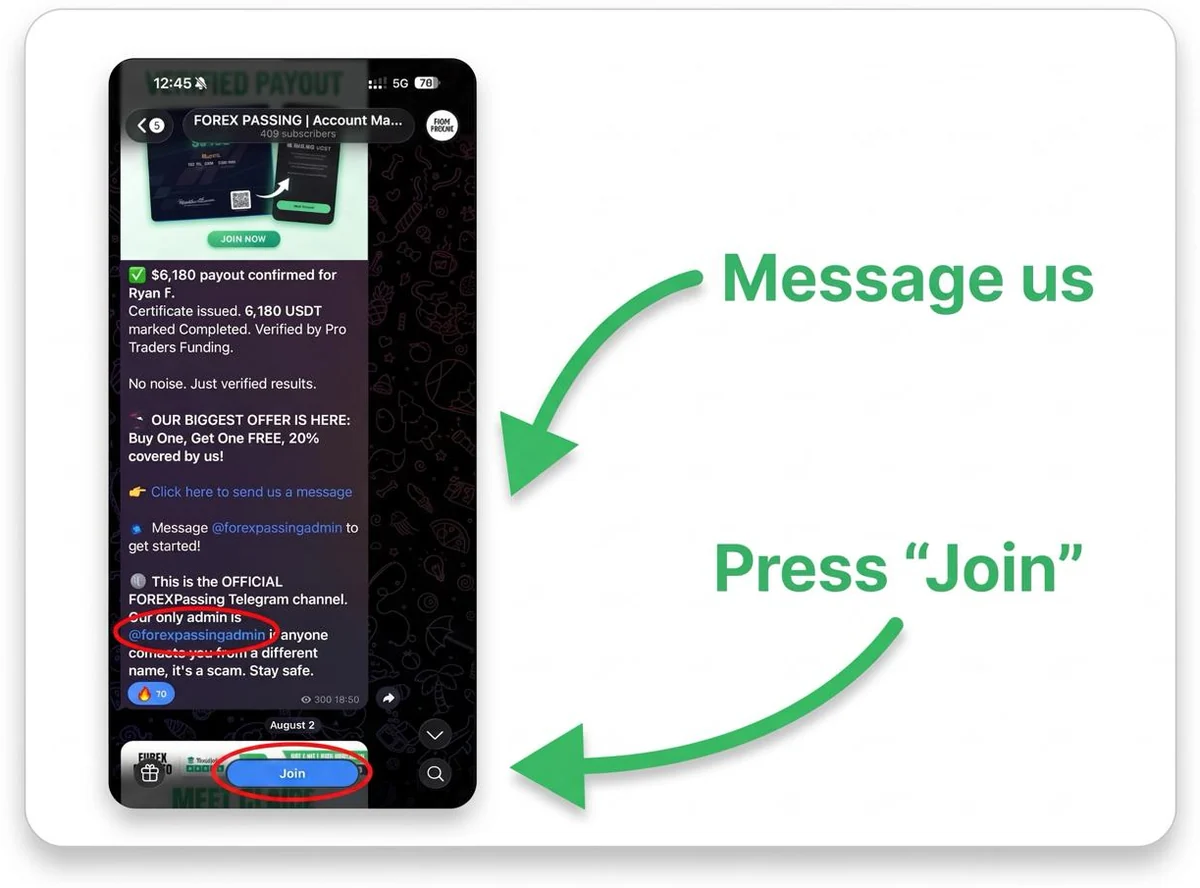
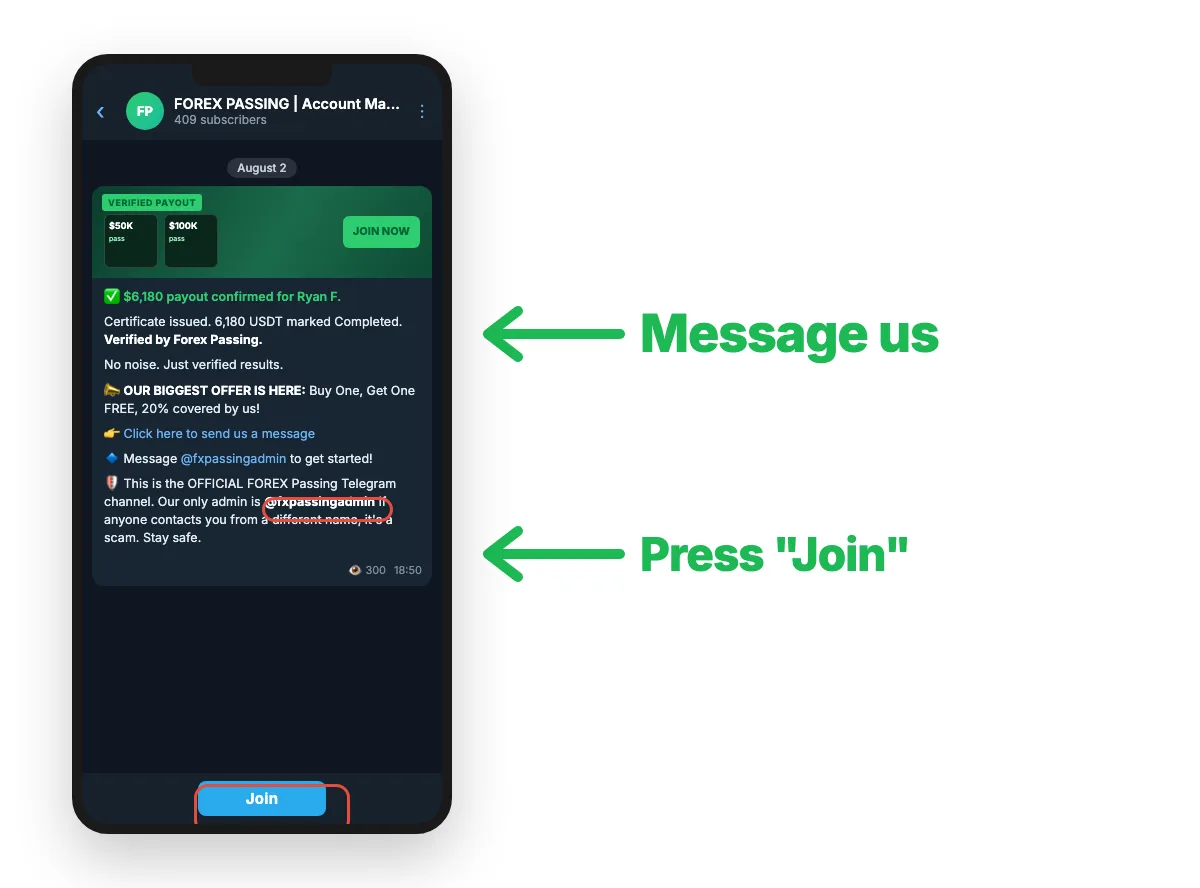
Sync miejsc z thank-you: ping + Make, świeża grafika TG
Opis kanału dostraja się przez publiczny /api/spots-ping (ruch thank-you + cron)
i przez Make/spots-sync z tym samym x-sync-key; grafika na thank-you ma aktualne handlowe @fxpassingadmin.

diff --git a/STRONA/api/spots-sync.js b/STRONA/api/spots-sync.js
@@ -3,34 +3,14 @@
 //
 // Wołane z zewnętrznego budzika (scenariusz Make), bo liczba wynika z pory dnia
 // w Nowym Jorku i nie ma zdarzenia, na które dałoby się zareagować. Cała logika
-// siedzi tutaj, a nie w budziku — dzięki temu Make jest wymienialny i nie ma
-// tam drugiej kopii wzoru, która mogłaby się rozjechać ze stroną.
-//
-// Harmonogram GitHub Actions próbowaliśmy pierwszy i NIE DZIAŁA na tym repo:
-// `workflow_dispatch` odpala się bez pudła, ale event `schedule` nie odpalił się
-// ani razu przez ponad dwie godziny — ani przy `*/5 * * * *`, ani przy rzadkim
-// harmonogramie celującym w progi. Stąd budzik z zewnątrz.
-//
-// Bezstanowe i idempotentne: czyta żywy opis, podmienia w nim SAMĄ liczbę
-// przed „remaining" i wysyła tylko przy różnicy. Reszta opisu należy do
-// admina — może ją redagować w apce, a sync jej nie nadpisze. Szablon z
-// spots.js wchodzi dopiero, gdy w opisie nie ma licznika (np. opis wyczyszczony
-// do zera). Pominięte wywołanie niczego nie psuje — nadrabia następne.
+// siedzi w api/_lib/spots-sync-core.js — ten endpoint tylko pilnuje sekretu
+// `x-sync-key` i deleguje.
 //
 // Wstęp tylko z nagłówkiem `x-sync-key` zgodnym ze zmienną SPOTS_SYNC_KEY.
-// Wcześniej endpoint był otwarty i przyjmował token bota z nagłówka — obcy nie
-// mógł ruszyć cudzego kanału (Telegram odrzuca nie-administratora), ale mógł
-// palić limity naszego bota i triggerować zapisy. Teraz token bota pochodzi
-// WYŁĄCZNIE z TELEGRAM_BOT_TOKEN, a budzik (scenariusz Make) uwierzytelnia się
-// sekretem. Gate obejmuje też `?dry=1`, bo podgląd zdradza opis i chatId.
+// Token bota pochodzi WYŁĄCZNIE z TELEGRAM_BOT_TOKEN. Gate obejmuje też
+// `?dry=1`, bo podgląd zdradza opis i chatId.
 
-import {
-  channelDescriptionAt,
-  nextSpotsChange,
-  swapSpotsNumber,
-  TG_CHANNEL_CHAT_ID,
-  TG_DESCRIPTION_MAX,
-} from '../src/lib/spots.js';
+import { syncChannelDescription } from './_lib/spots-sync-core.js';
 
 const TAG = '[spots-sync]';
 
@@ -43,31 +23,10 @@ function timingSafeEqual(a, b) {
   return diff === 0;
 }
 
-/** Jedno wywołanie Bot API. Rzuca z czytelnym powodem zamiast gołego statusu. */
-async function tg(token, method, params) {
-  const res = await fetch(`https://api.telegram.org/bot${token}/${method}`, {
-    method: 'POST',
-    headers: { 'content-type': 'application/json' },
-    body: JSON.stringify(params),
-  });
-  const body = await res.json().catch(() => ({}));
-  if (!body.ok) {
-    const err = new Error(`${method}: ${body.description ?? res.status}`);
-    err.status = res.status;
-    throw err;
-  }
-  return body.result;
-}
-
 export default async function handler(req, res) {
   const now = Date.now();
-
-  // Nie chcemy, żeby budzik dostał odpowiedź z pośredniego cache'u i uznał, że
-  // zrobił swoje.
   res.setHeader('cache-control', 'no-store');
 
-  // Zamek na drzwiach. Bez ustawionego SPOTS_SYNC_KEY endpoint jest zamknięty
-  // na głucho — brak sekretu w env to stan „nie skonfigurowano", nie „otwarte".
   const syncKey = process.env.SPOTS_SYNC_KEY;
   const givenKey = typeof req.headers['x-sync-key'] === 'string' ? req.headers['x-sync-key'].trim() : '';
   if (!syncKey || !givenKey || !timingSafeEqual(givenKey, syncKey)) {
@@ -75,61 +34,25 @@ export default async function handler(req, res) {
     return;
   }
 
-  const { n, description: fallback } = channelDescriptionAt(now);
-  const chatId = process.env.TELEGRAM_SPOTS_CHAT_ID || TG_CHANNEL_CHAT_ID;
   const token = process.env.TELEGRAM_BOT_TOKEN;
-
   if (!token) {
     res.status(500).json({ ok: false, error: 'brak TELEGRAM_BOT_TOKEN w środowisku' });
     return;
   }
 
   try {
-    // Żywy opis czytamy PRZED złożeniem docelowego (także w ?dry=1): tekst
-    // należy do admina, my podmieniamy w nim tylko liczbę przed „remaining".
-    const chat = await tg(token, 'getChat', { chat_id: chatId });
-    const have = chat.description ?? '';
-    const description = swapSpotsNumber(have, n) ?? fallback;
-
-    if (description.length > TG_DESCRIPTION_MAX) {
-      res.status(500).json({ ok: false, error: `opis ma ${description.length} znaków, limit ${TG_DESCRIPTION_MAX}` });
-      return;
-    }
-
-    // Podgląd: co stoi, co byłoby wysłane i czy w ogóle jest różnica.
-    if (req.query?.dry) {
-      res.status(200).json({
-        ok: true,
-        dry: true,
-        n,
-        was: have,
-        description,
-        wouldChange: have !== description,
-        chatId,
-        nextChangeAt: new Date(nextSpotsChange(now)).toISOString(),
-      });
-      return;
-    }
-
-    if (have === description) {
-      res.status(200).json({ ok: true, n, changed: false, description });
-      return;
-    }
-
-    await tg(token, 'setChatDescription', { chat_id: chatId, description });
-
-    // „ok: true" mówi tylko, że żądanie przeszło — czytamy z powrotem.
-    const after = (await tg(token, 'getChat', { chat_id: chatId })).description ?? '';
-    if (after !== description) {
-      throw new Error('po zapisie opis nadal się nie zgadza');
-    }
-
-    console.log(`${TAG} ${n} miejsc — opis zaktualizowany`);
-    res.status(200).json({ ok: true, n, changed: true, was: have, description });
+    const result = await syncChannelDescription({
+      token,
+      now,
+      dry: Boolean(req.query?.dry),
+    });
+    if (result.changed) console.log(`${TAG} ${result.n} miejsc — opis zaktualizowany`);
+    res.status(200).json(result);
   } catch (err) {
-    // Komunikaty Telegrama nie niosą tokenu, ale nie ryzykujemy: do odpowiedzi
-    // idzie tylko powód, nigdy adres wywołania.
     console.error(`${TAG} ${err.message}`);
-    res.status(err.status === 403 || err.status === 400 ? 502 : 500).json({ ok: false, n, error: err.message });
+    res.status(err.status === 403 || err.status === 400 ? 502 : 500).json({
+      ok: false,
+      error: err.message,
+    });
   }
 }

diff --git a/STRONA/api/_lib/spots-sync-core.js b/STRONA/api/_lib/spots-sync-core.js
@@ -1,0 +1,80 @@
+// Wspólna logika dostrajania opisu kanału — używana przez:
+//   • api/spots-sync.js  (sekret x-sync-key, np. Make)
+//   • api/spots-ping.js  (publiczny, throttlowany, z thank-you + cron)
+//
+// Jedno miejsce na getChat → swap liczby → setChatDescription, żeby obie
+// ścieżki nie rozjechały się w przyszłości.
+
+import {
+  channelDescriptionAt,
+  nextSpotsChange,
+  swapSpotsNumber,
+  TG_CHANNEL_CHAT_ID,
+  TG_DESCRIPTION_MAX,
+} from '../../src/lib/spots.js';
+
+/** Jedno wywołanie Bot API. Rzuca z czytelnym powodem zamiast gołego statusu. */
+export async function tg(token, method, params) {
+  const res = await fetch(`https://api.telegram.org/bot${token}/${method}`, {
+    method: 'POST',
+    headers: { 'content-type': 'application/json' },
+    body: JSON.stringify(params),
+  });
+  const body = await res.json().catch(() => ({}));
+  if (!body.ok) {
+    const err = new Error(`${method}: ${body.description ?? res.status}`);
+    err.status = res.status;
+    throw err;
+  }
+  return body.result;
+}
+
+/**
+ * Czyta żywy opis, podmienia liczbę przed „remaining" (albo wstawia szablon)
+ * i opcjonalnie zapisuje. Zwraca pełny raport do odpowiedzi HTTP.
+ *
+ * @param {{ token: string, chatId?: string, now?: number, dry?: boolean }} opts
+ */
+export async function syncChannelDescription({ token, chatId, now = Date.now(), dry = false }) {
+  const { n, description: fallback } = channelDescriptionAt(now);
+  const id = chatId || process.env.TELEGRAM_SPOTS_CHAT_ID || TG_CHANNEL_CHAT_ID;
+
+  const chat = await tg(token, 'getChat', { chat_id: id });
+  const have = chat.description ?? '';
+  const description = swapSpotsNumber(have, n) ?? fallback;
+
+  if (description.length > TG_DESCRIPTION_MAX) {
+    const err = new Error(`opis ma ${description.length} znaków, limit ${TG_DESCRIPTION_MAX}`);
+    err.status = 500;
+    throw err;
+  }
+
+  const wouldChange = have !== description;
+  const nextChangeAt = new Date(nextSpotsChange(now)).toISOString();
+
+  if (dry) {
+    return {
+      ok: true,
+      dry: true,
+      n,
+      was: have,
+      description,
+      wouldChange,
+      chatId: id,
+      nextChangeAt,
+    };
+  }
+
+  if (!wouldChange) {
+    return { ok: true, n, changed: false, description, chatId: id, nextChangeAt };
+  }
+
+  await tg(token, 'setChatDescription', { chat_id: id, description });
+
+  const after = (await tg(token, 'getChat', { chat_id: id })).description ?? '';
+  if (after !== description) {
+    throw new Error('po zapisie opis nadal się nie zgadza');
+  }
+
+  return { ok: true, n, changed: true, was: have, description, chatId: id, nextChangeAt };
+}

diff --git a/STRONA/api/spots-ping.js b/STRONA/api/spots-ping.js
@@ -1,0 +1,53 @@
+// GET /api/spots-ping — publiczny, throttlowany trigger syncu opisu kanału.
+//
+// Wołany z /thank-you (fire-and-forget przy wejściu i przy każdym przeskoku
+// licznika) oraz z crona Vercela raz na dobę jako zapas. Bez sekretu: idempotentny
+// (zapis tylko gdy liczba się różni) i ograniczony in-memory do ~1 wywołania
+// Telegrama na minutę na instancję funkcji — flood z botów nie pali API.
+//
+// Zapisana logika: api/_lib/spots-sync-core.js (ta sama co w spots-sync).
+
+import { syncChannelDescription } from './_lib/spots-sync-core.js';
+
+const TAG = '[spots-ping]';
+const THROTTLE_MS = 60_000;
+
+// Per-instance (wystarcza na serverless: cold start resetuje, warm trzyma).
+let lastRunAt = 0;
+let lastResult = null;
+
+export default async function handler(req, res) {
+  res.setHeader('cache-control', 'no-store');
+  // CORS niepotrzebny — to samo origin z thank-you; cron też bije bezpośrednio.
+
+  if (req.method !== 'GET' && req.method !== 'HEAD') {
+    res.status(405).json({ ok: false, error: 'method not allowed' });
+    return;
+  }
+
+  const token = process.env.TELEGRAM_BOT_TOKEN;
+  if (!token) {
+    res.status(500).json({ ok: false, error: 'brak TELEGRAM_BOT_TOKEN w środowisku' });
+    return;
+  }
+
+  const now = Date.now();
+  if (now - lastRunAt < THROTTLE_MS && lastResult) {
+    res.status(200).json({ ...lastResult, throttled: true });
+    return;
+  }
+
+  try {
+    const result = await syncChannelDescription({ token, now });
+    lastRunAt = now;
+    lastResult = result;
+    if (result.changed) console.log(`${TAG} ${result.n} miejsc — opis zaktualizowany`);
+    res.status(200).json(result);
+  } catch (err) {
+    console.error(`${TAG} ${err.message}`);
+    res.status(err.status === 403 || err.status === 400 ? 502 : 500).json({
+      ok: false,
+      error: err.message,
+    });
+  }
+}

diff --git a/STRONA/src/pages/ThankYouPage.tsx b/STRONA/src/pages/ThankYouPage.tsx
@@ -77,9 +77,22 @@ import {
  * nowojorskiej. Te dwa liczniki nie są ze sobą zsynchronizowane.
  */
 
+/** Fire-and-forget: dostraja opis kanału TG do bieżącego licznika miejsc. */
+function pingSpotsSync() {
+  try {
+    void fetch('/api/spots-ping', { method: 'GET', keepalive: true, cache: 'no-store' })
+  } catch {
+    // Sync jest best-effort — brak sieci nie może wywalić thank-you.
+  }
+}
+
 function useSpotsLeft() {
   const [now, setNow] = useState(() => Date.now())
   useEffect(() => {
+    // Przy wejściu na stronę — i przy każdym przeskoku liczby — pingujemy
+    // sync opisu kanału. Endpoint jest publiczny i throttlowany (~60 s),
+    // więc flood z odświeżeń nic nie psuje.
+    pingSpotsSync()
     let id = 0
     // Budzik ustawiany DOKŁADNIE na próg zmiany, nie co kilkanaście sekund.
     // Dzięki temu pas i alert przeskakują w tej samej chwili i nigdy — nawet
@@ -89,6 +102,7 @@ function useSpotsLeft() {
       const t = Date.now()
       id = window.setTimeout(() => {
         setNow(Date.now())
+        pingSpotsSync()
         schedule()
       }, Math.max(1000, nextSpotsChange(t) - t))
     }
